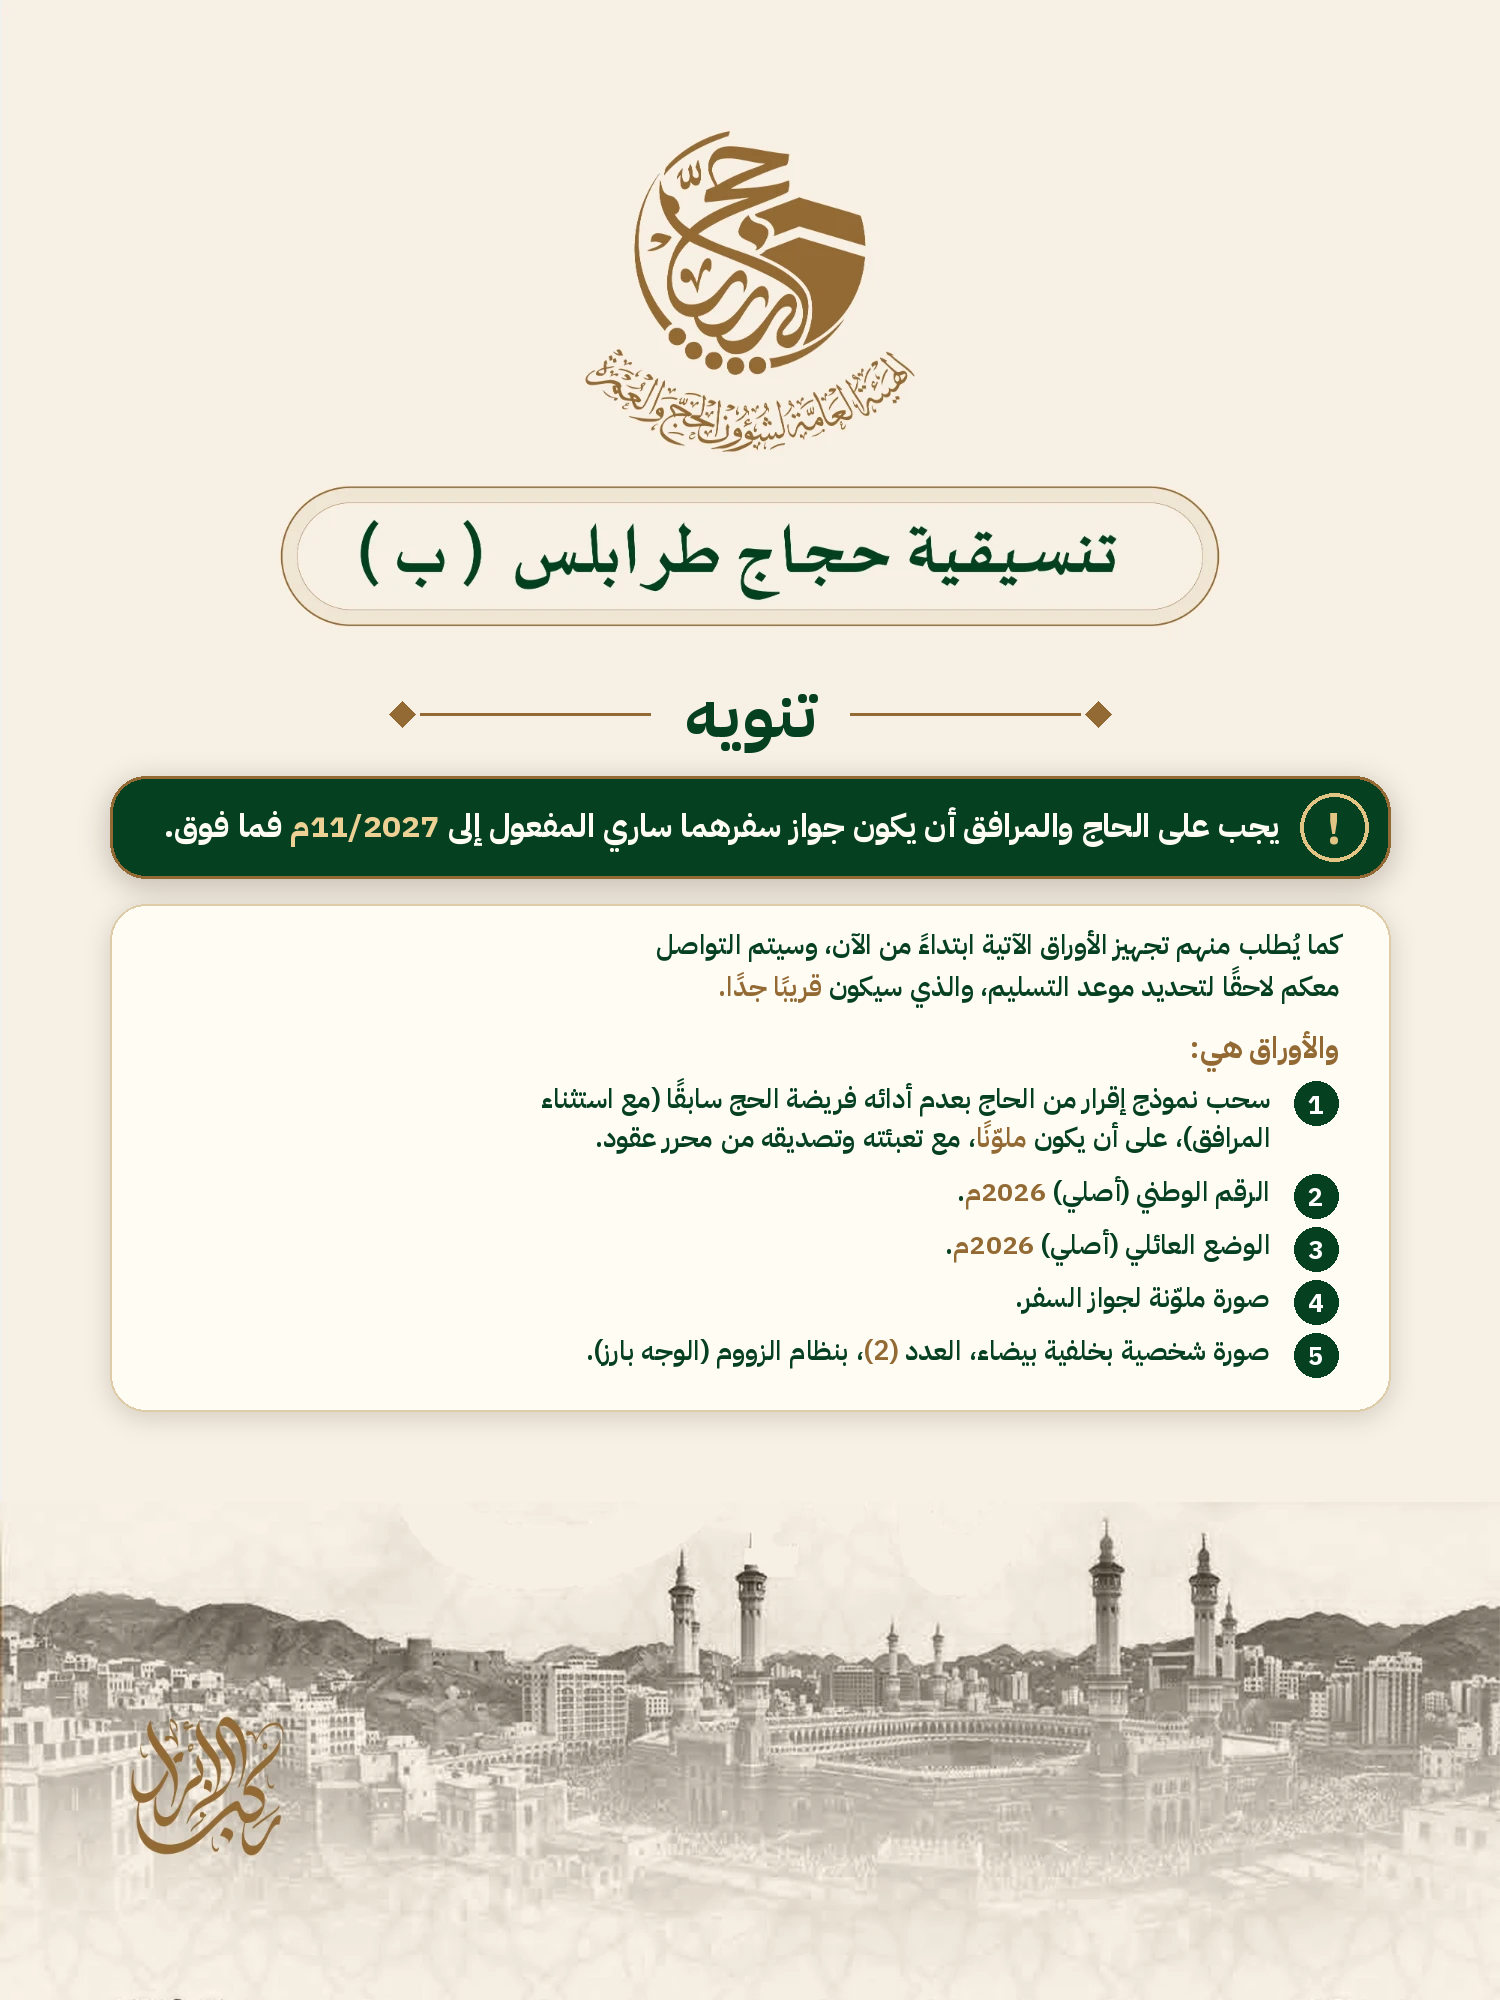
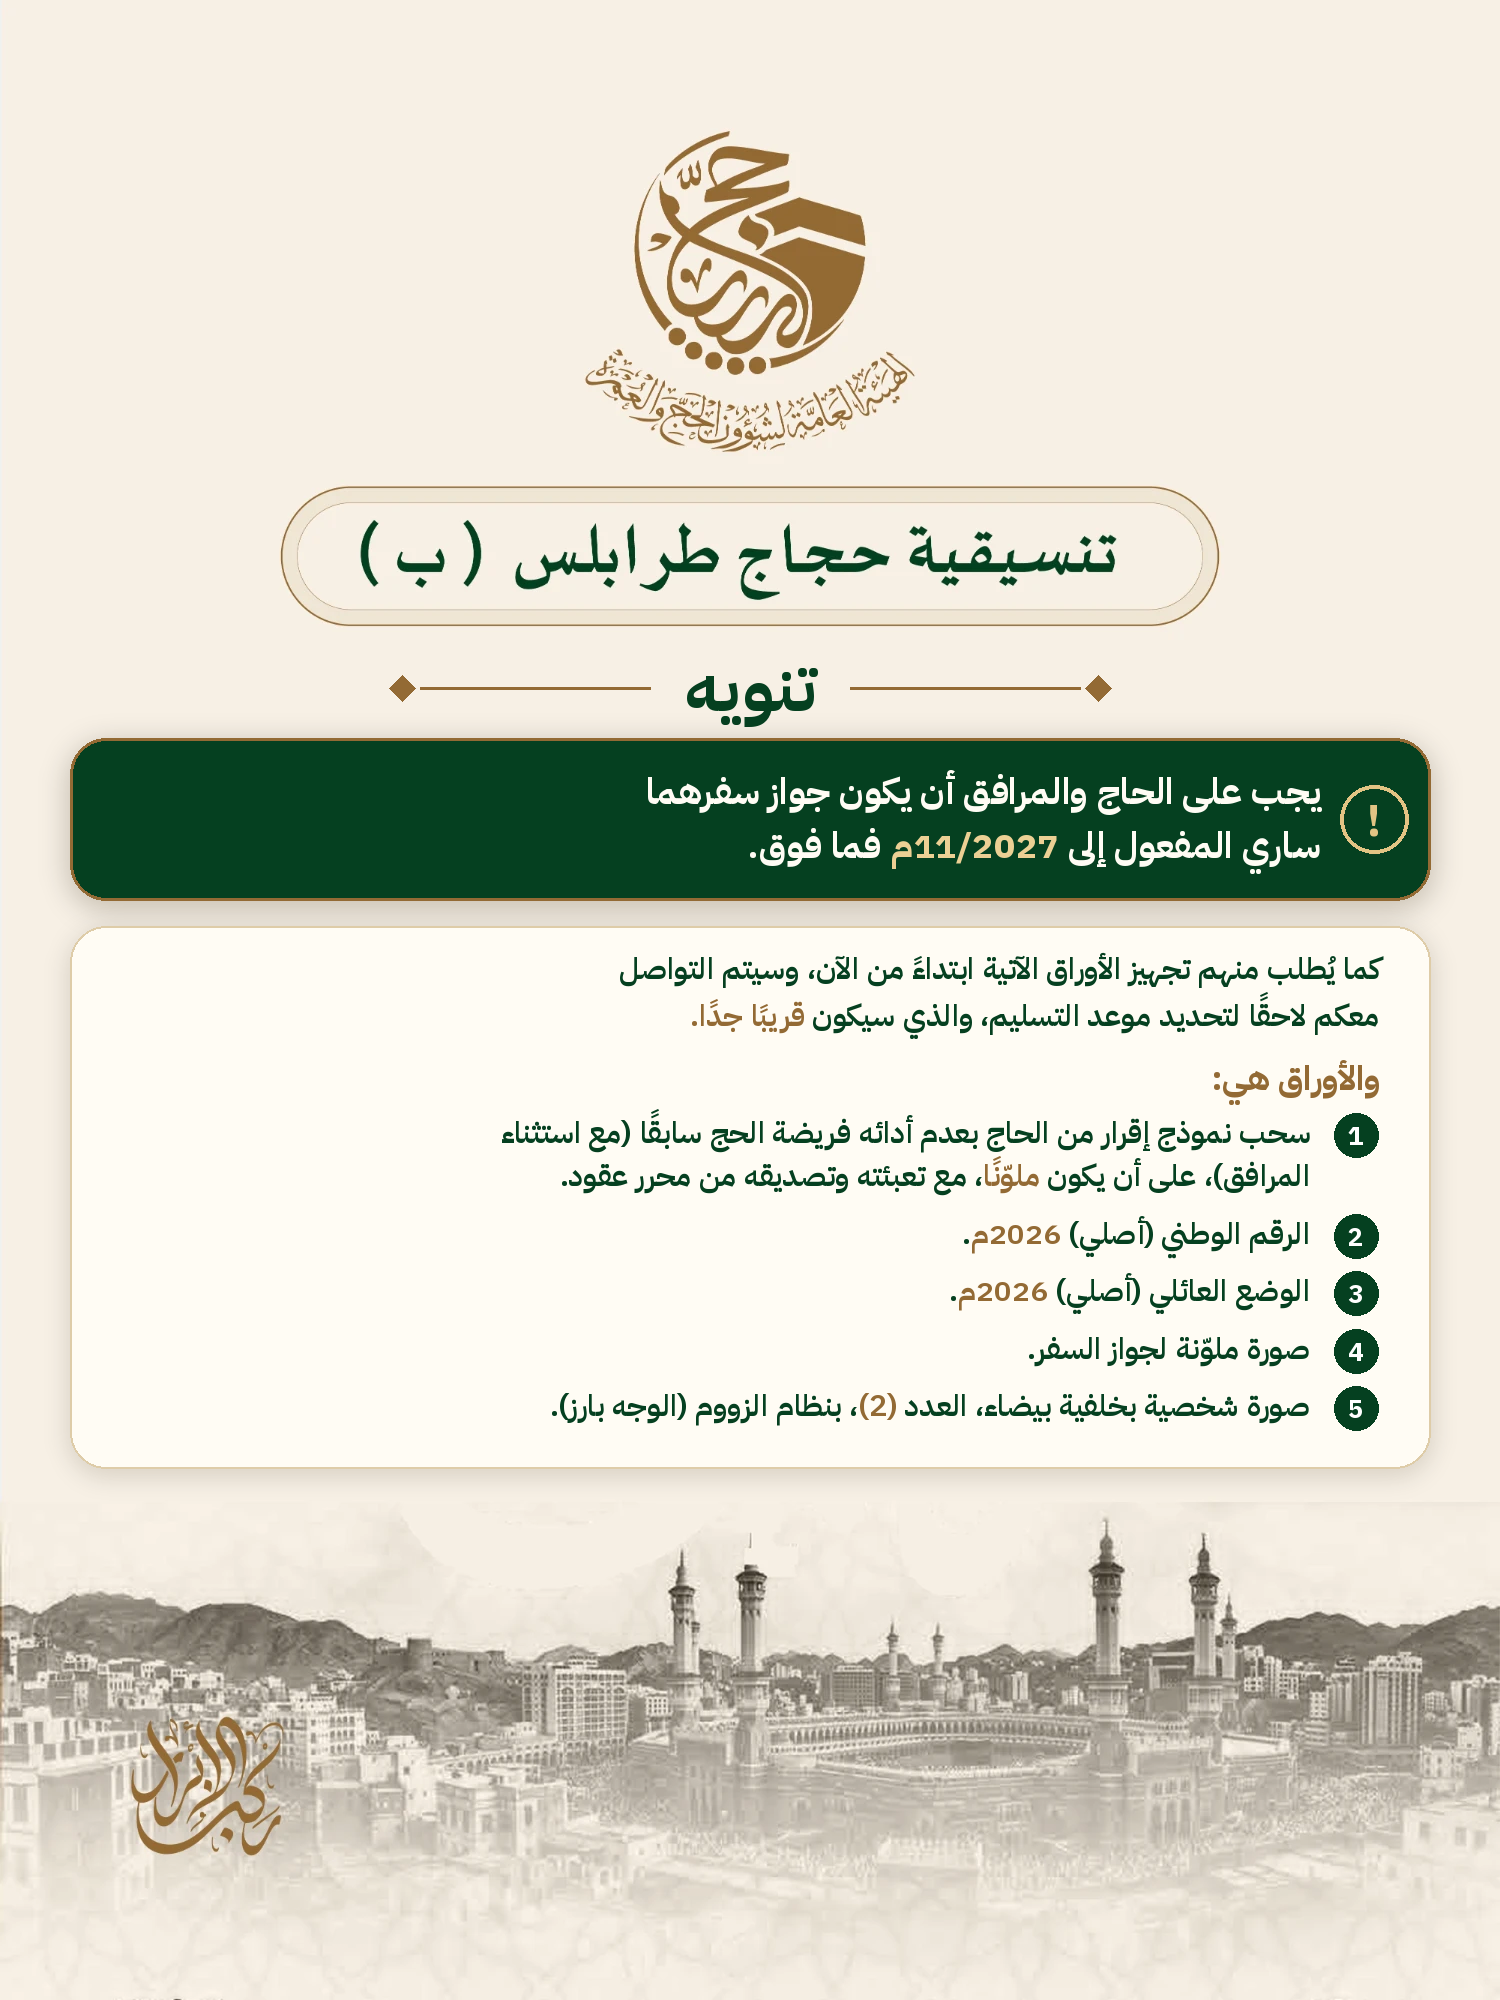
Notice: larger text (wider safe area, tighter chrome)
Claude-Session: https://claude.ai/code/session_0191y2EXY5dUDpfBFmNJAMrU

Changed region(s): [[0.0307, 0.341, 0.9813, 0.713]]

diff --git a/identity_pack/make_notice.py b/identity_pack/make_notice.py
@@ -8,7 +8,7 @@ from pack_lib import *
 TPL = "mapdata/template_notice.webp"
 W, H = 1500, 2000
 GREEN_T, BRONZE_T = (5, 64, 32), (147, 106, 52)
-AREA = (110, 668, W - 110, 1462)               # safe area inside the empty region
+AREA = (70, 650, W - 70, 1478)               # safe area inside the empty region
 
 HEAD = "تنويه"
 PASS = "يجب على الحاج والمرافق أن يكون جواز سفرهما ساري المفعول إلى *11/2027م* فما فوق."
@@ -46,15 +46,15 @@ def bullet(d, cx, cy, kind, n, r=22):
 # --------------------------------------------------------------------------- layout A
 def layout_a(img, s):
     d = ImageDraw.Draw(img); x0, x1 = AREA[0], AREA[2]
-    y = AREA[1] + 20
-    heading(img, y + 34, int(84 * s)); y += 100
+    y = AREA[1] + 10
+    heading(img, y + 30, int(min(84, 70 * s))); y += 82
     # passport notice: cream card with gold frame
-    pw = x1 - x0 - 80
-    ph = th(d, PASS, int(40 * s), pw - 80, 700, 1.5) + 50
-    box = (x0 + 40, y, x1 - 40, y + ph)
+    pw = x1 - x0
+    ph = th(d, PASS, int(40 * s), pw - 80, 700, 1.45) + 40
+    box = (x0, y, x1, y + ph)
     bc.shadowed_round(img, box, 40, (255, 252, 244), BRONZE_T, 3, blur=12, off=6, alpha=45); d = ImageDraw.Draw(img)
     d.rounded_rectangle((box[0] + 9, box[1] + 9, box[2] - 9, box[3] - 9), 32, outline=(222, 204, 168), width=2)
-    txt(d, box[0] + 40, box[2] - 40, y + 25, PASS, int(40 * s), 700, GREEN_T, "center", 1.5); y += ph + 28
+    txt(d, box[0] + 40, box[2] - 40, y + 20, PASS, int(40 * s), 700, GREEN_T, "center", 1.45); y += ph + 20
     y += txt(d, x0 + 30, x1 - 30, y, INTRO, int(33 * s), 600, GREEN_T, "center", 1.55) + 14
     d.text((x1 - 30, y + 28), LEAD, font=font(700, int(38 * s)), fill=BRONZE_T, anchor="rm", direction="rtl", language="ar"); y += 62
     for t in ITEMS:
@@ -67,8 +67,8 @@ def layout_a(img, s):
 # --------------------------------------------------------------------------- layout B
 def layout_b(img, s):
     d = ImageDraw.Draw(img); x0, x1 = AREA[0], AREA[2]
-    y = AREA[1] + 12
-    heading(img, y + 34, int(80 * s)); y += 96
+    y = AREA[1] + 8
+    heading(img, y + 30, int(min(84, 70 * s))); y += 80
     ph = th(d, PASS, int(38 * s), x1 - x0 - 160, 700, 1.5) + 54
     box = (x0, y, x1, y + ph)
     soft_shadow(img, box, 36, alpha=70, blur=14, off=7); d = ImageDraw.Draw(img)
@@ -95,8 +95,8 @@ def layout_b(img, s):
 # --------------------------------------------------------------------------- layout C
 def layout_c(img, s):
     d = ImageDraw.Draw(img); x0, x1 = AREA[0], AREA[2]
-    y = AREA[1] + 10
-    heading(img, y + 34, int(80 * s)); y += 94
+    y = AREA[1] + 8
+    heading(img, y + 30, int(min(84, 70 * s))); y += 80
     # passport notice: capsule with gold double frame and medallion
     pw = x1 - x0 - 60
     ph = th(d, PASS, int(37 * s), pw - 260, 700, 1.5) + 50
@@ -129,14 +129,14 @@ def layout_c(img, s):
 
 LAYOUTS = [layout_a, layout_b, layout_c]
 
-def fit(fn, s0=1.0):
+def fit(fn, s0=1.6):
     s = s0
     while s > 0.6:
         im = Image.open(TPL).convert("RGB")
         end = fn(im, s)
         if end <= AREA[3]:
             return im, s, end
-        s -= 0.03
+        s -= 0.02
     return im, s, end
 
 if __name__ == "__main__":
